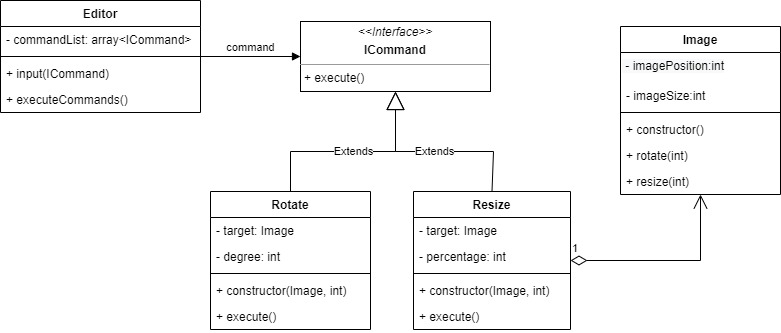
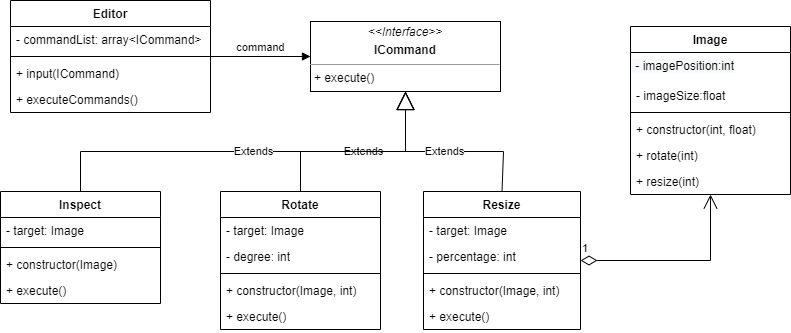
command for go finished

diff --git a/Command/Golang/Test.go b/Command/Golang/Test.go
@@ -1,0 +1,45 @@
+package main
+
+func main() {
+	editor := Editor{
+		Commands: []ICommand{},
+	}
+	image := Image{
+		ImagePosition: 	0,
+		ImageSize:	  	1000,
+	}
+
+	inspect := Inspect{
+		Target: &image,
+	}
+	rotate := Rotate{
+		Target: 	&image,
+		Degree: 	30,
+	}
+	resize := Resize{
+		Target:		&image,
+		Percentage:	20,
+	}
+
+	// Inspect initial state
+	editor.input(inspect)
+
+	// Resize by 20 percent
+	editor.input(resize)
+	editor.input(inspect)
+
+	// Rotate by 30 degree
+	editor.input(rotate)
+	editor.input(inspect)
+
+	// Resize by 20 percent again
+	editor.input(resize)
+	editor.input(inspect)
+
+	// Rotate by 30 degree again
+	editor.input(rotate)
+	editor.input(inspect)
+
+	// Execute all commands
+	editor.executeCommands()
+}

diff --git a/Command/Golang/Image.go b/Command/Golang/Image.go
@@ -1,0 +1,31 @@
+package main
+
+import (
+	"fmt"
+	"math"
+)
+
+type Image struct {
+	ImagePosition int
+	ImageSize	  float64
+}
+
+func (image *Image) rotate(degree int) {
+	image.ImagePosition = int(math.Abs(float64(image.ImagePosition + degree))) % 360
+}
+
+func (image *Image) resize(percentage int) {
+	image.ImageSize *= float64(percentage) / 100.0
+}
+
+func (image *Image) inspect() {
+	fmt.Println(
+		"Image Position:", 
+		image.ImagePosition, 
+		"\n",
+		"Image Size:", 
+		image.ImageSize,
+		"\n",
+		"\n",
+	)
+}

diff --git a/Command/Golang/Editor.go b/Command/Golang/Editor.go
@@ -1,0 +1,17 @@
+package main
+
+type Editor struct {
+	Commands []ICommand
+}
+
+func (editor *Editor) input(command ICommand) {
+	editor.Commands = append(editor.Commands, command)
+}
+
+func (editor *Editor) executeCommands() {
+	for _, command := range editor.Commands {
+		command.execute()
+	}
+
+	editor.Commands = []ICommand{}
+}

diff --git a/Command/Golang/Resize.go b/Command/Golang/Resize.go
@@ -1,0 +1,10 @@
+package main
+
+type Resize struct	{
+	Target 		*Image
+	Percentage 	int
+}
+
+func (command Resize) execute() {
+	command.Target.resize(command.Percentage)
+}

diff --git a/Command/Golang/Rotate.go b/Command/Golang/Rotate.go
@@ -1,0 +1,10 @@
+package main
+
+type Rotate struct	{
+	Target 		*Image
+	Degree	 	int
+}
+
+func (command Rotate) execute() {
+	command.Target.rotate(command.Degree)
+}

diff --git a/Command/Golang/Inspect.go b/Command/Golang/Inspect.go
@@ -1,0 +1,9 @@
+package main
+
+type Inspect struct	{
+	Target 		*Image
+}
+
+func (command Inspect) execute() {
+	command.Target.inspect()
+}

diff --git a/Command/Golang/ICommand.go b/Command/Golang/ICommand.go
@@ -1,0 +1,5 @@
+package main
+
+type ICommand interface {
+	execute()
+}
